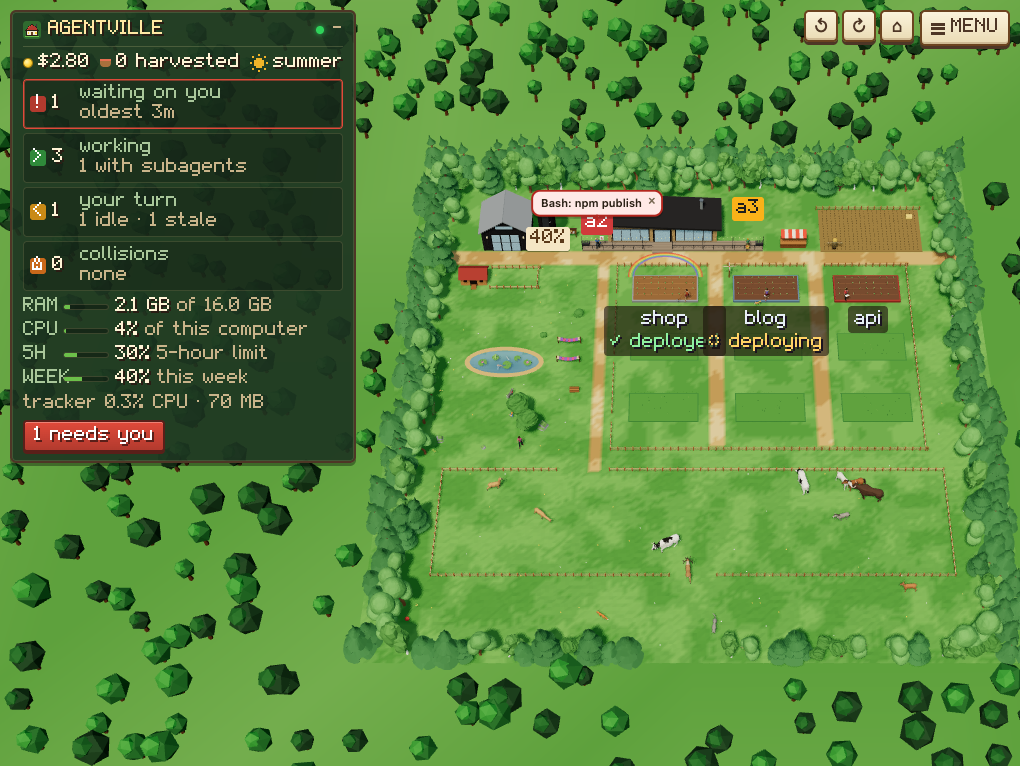
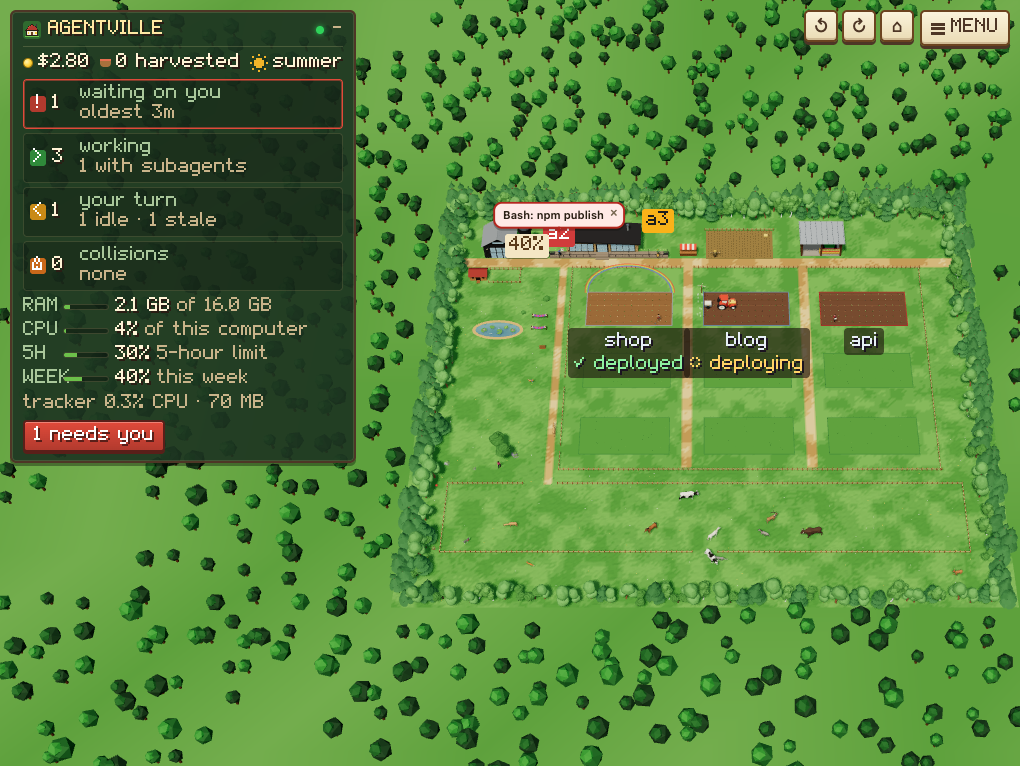
3D farm: docs for the machines, a field's season, the shed, the real crops and the bigger farm
README: the feature line, the bigger fields in the intro, A field's season, Machines and The
machine shed bullets, two troubleshooting rows, the check's line. The 3D farm's Help: a field's
season, machines, the shed. docs/worlds.md: the catalogue row, and baking a palette texture into
a model's vertex colours. docs/farm3d.png taken again (the bigger farm, the sprayer out in blog).

diff --git a/web/worlds/farm3d/overlay.js b/web/worlds/farm3d/overlay.js
@@ -54,13 +54,15 @@ const HELP = `<h2>The 3D farm <small>(a prototype)</small></h2>
     <dt>Your porch</dt><dd>On the deck: waiting on you (left, waving, a red <b>!</b>; a scroll for a plan to approve), its turn ended (right, a basket; <b>?</b> when it asked you something). Click the farmhouse for the list</dd>
     <dt>A field</dt><dd>A farmer at work in a repo, holding the tool for its step (hoe = editing, almanac = reading, spyglass = searching, crate = commit, cart = push, with a flag to deploy, whistle = calling subagents…). Click a field for the files agents read or wrote there</dd>
     <dt>Crops</dt><dd>Grow from seed to ripe as its context fills</dd>
+    <dt>A field's season</dt><dd>Weeds: fallow · dark furrows: ploughed (an agent started work there) · seed rows: sown (its first edit) · growing, then ripe as context fills · wet, dark plants: sprayed (tests running) · stubble: cut by the combine at a compaction, then sown again · dry stalks: its agents are stale</dd>
+    <dt>Machines</dt><dd>A farmer drives one for a heavy step: the tractor sprays for tests, mows for a build, brings sacks for an install, takes crates to the stall for a push, ploughs and sows for a big edit (5 files or more lately); the truck drives a deploy to town; the combine cuts the field at a compaction. It stays out 20 s after the step; waiting on you calls the farmer straight out of it</dd>
     <dt>Above a field</dt><dd>Hay: uncommitted files · crates: unpushed commits · a mailbox: behind · a pennant: a branch · a rope with flags: two agents writing at once · a pump: a background command running</dd>
     <dt>Weather</dt><dd>Rain: its deploy failed · a rainbow: it worked · a windmill: it runs</dd>
     <dt>Elsewhere</dt><dd>The shade tree: idle · scarecrows: stale · hammocks: it wakes up by itself (when, over it) · the meadow: working outside any repo · a cloud: thinking</dd>
     <dt>Hens and the dog</dt><dd>Subagents follow their farmer as hens; an Explore one as a small tan dog. The henhouse: eggs for subagents done lately, hens for those no farmer can lead (click it for the list)</dd>
     <dt>Carts</dt><dd>A cart pulled by a donkey for each MCP server called lately: it drives to the farmer calling it. A cart to town and back for a web call</dd>
     <dt>Pigeons</dt><dd>A note from one agent to another, flying over</dd>
-    <dt>Buildings</dt><dd>The barn: start a session · the silo: your plan's week as grain, a lamp near the limit (click for the meters) · the stall: pull requests, a crate each · the notice board: what your projects remember</dd>
+    <dt>Buildings</dt><dd>The barn: start a session · the silo: your plan's week as grain, a lamp near the limit (click for the meters) · the stall: pull requests, a crate each · the notice board: what your projects remember · the machine shed: who is out on a machine</dd>
     <dt>Animals</dt><dd>Just for fun, never for data. They roam the farm round what stands on it, play and play-fight with each other (tag, a race, a headbutt duel…), and idle farmers come and play with them; they all talk now and then. Click one for its menu: Talk, Play, and Pet, Feed or Throw a stick, which send a farmer over</dd>
     <dt>Moving</dt><dd>Drag to pan, scroll or pinch to zoom. Right-drag (or Shift-drag) to turn and tilt the farm; ↺ ↻ (or Q / E) turn it 15°, ⌂ puts it back square-on. Follow in the Menu keeps the farmer you picked in the middle; zoomed in, the minimap in the corner shows where you are (click it to go elsewhere). Click a farmer to open it; its bubble for its whole conversation; a building or a field for what it holds</dd>
   </dl>

diff --git a/docs/worlds.md b/docs/worlds.md
@@ -37,7 +37,7 @@ Keys: a built-in world is named by its folder in `web/worlds/` (the farm is `far
 | 🌾 **Farm** | `farm` | Built in, and the default: every agent a farmer, every repo a field, with animals of its own. The README's "The farm" says what each thing on it means |
 | 🤖 **Robot factory** | `factory` | Built in: a bright workshop where every agent is a robot put together from parts picked by its id, and every repo an assembly bay where a robot is built as the context fills. It shows everything the farm shows, its own way: the 5-hour limit is floor heat (its season switch is **Heat**: `seasonNames`), a message is a capsule through pneumatic tubes (its own `flight`), and its panel and Menu are the farm's (`panelHud`) in its words. A robot dog, a robot vacuum and a cat live there. `factory.png` below is taken from the golden `factory-day` view (`npm run golden`, the factory chosen by day, animals off), so retake it from that view. The README's "The robot factory" says what each thing means; `web/worlds/factory/world.js` is the second full example after the farm |
 | 🎖 **Field exercise** | `military` | Built in: a bright, friendly army base on manoeuvres where every agent is a soldier in a field jacket of its colour (the people kit's `jacket`), and every repo a position fortified as the context fills, until its flag is raised. It shows everything the farm shows, its own way, and nobody is ever shown hurt: the 5-hour limit is the alert level (its season switch is **Alert**: `seasonNames`; its `coldSeason` is `null`, so its animals never act cold at max), a message is the engine's carrier pigeon, and its panel and Menu are the farm's (`panelHud`) in drill words. The regimental mascots live there: a goat in a red dress coat (the goat's `mascot` look), the mess cat and two depot mice. `military.png` below is taken from the golden `military-day` view (`npm run golden`, the field exercise chosen by day, animals off), so retake it from that view. The README's "The field exercise" says what each thing means; `web/worlds/military/world.js` is the third full example |
-| 🚜 **3D farm** | `farm3d` | Built in, a prototype: the farm drawn in 3D with three.js, a low-poly diorama, with the farm's panel and Menu (`panelHud`, its clicks its own: `web/worlds/farm3d/hud.js`), its building dialogs, a field's close-up (`makeField`), the Farm diary, hens and the Explore dog for subagents, MCP carts, pigeons, farmers playing with the animals and animals playing and play-fighting with each other. It is the example of a world that draws itself (`Agentville.raw`) and imports ES modules from its own folder (`world.js` registers, then `import('./app.js')`; see "Modules", in "Running a world"), with three.js 0.186.1 copied into its `vendor/` (the frame may load scripts from the dashboard only) and every shape built in code (a frame can't fetch a model file, and the dashboard's pictures can't be WebGL textures), but for its animals and plants: the twelve animated models of a CC0 pack, for its pond a frog, three fish and a lily pad, and flat-coloured trees, bushes and rocks (CC0 single models: where each grows is its `nature.js`, drawn one `InstancedMesh` per model part, swayed by the wind in their materials' vertex shader), and for its farmers nine animated characters (CC0; `characters.js` picks one by the agent's id, a clip for each pose and an idle one's own moves (`makeIdler`); `build/character.js` bakes each into two skinned meshes, the shirt in the agent's colour and the rest coloured per vertex, the figurine standing in until it loads), packed into JS files in its `models/` and read with three.js's glTF loader (see "Modules"), then repainted as they load from its `coats.js` (a colour for each of a model's materials, by the material's name, and the farm's matte finish; the cows' spots a colour per face), so the model files stay as their maker made them. What they get up to, their habits and the menu a click on one opens, is plain logic in its `antics.js`, and where they may go (each herd's ground less the pond, the trees and the fences, for a body of its size; the pond's water and lily pads) is its `roam.js`, both apart from three.js, so its tests run them in Node; the animals' hit boxes are invisible meshes the click's ray finds. The far meadow under the farm is drawn first and hides nothing (`depthWrite` off), so the pond's hollow and its fish can lie below it. It follows the farm's rules from the scene (its `model.js`, whose copies of the farm's tables and rules `collector/test/farm3d.test.mjs` pins to the farm's own); what it shows, and the little it doesn't yet (the 2D farm's animal pranks), is in the README's "The 3D farm (prototype)". `farm3d.png` below is taken from `npm run world-shots -- farm3d --stop everyone`, cropped to the world. check-world can't run it (its vm has no modules or WebGL) and says so; `npm run farm3d-check` checks it in headless Chrome |
+| 🚜 **3D farm** | `farm3d` | Built in, a prototype: the farm drawn in 3D with three.js, a low-poly diorama, with the farm's panel and Menu (`panelHud`, its clicks its own: `web/worlds/farm3d/hud.js`), its building dialogs, a field's close-up (`makeField`), the Farm diary, hens and the Explore dog for subagents, MCP carts, pigeons, farmers playing with the animals and animals playing and play-fighting with each other, farmers driving machines for heavy steps (which machine, its passes and its way there are plain logic in its `machines.js`, drawn by `build/machines.js`: Kenney's tractor and truck, CC0, their palette baked into vertex colours and repainted per part, and a code-built combine), each field's season from its agents' work (`season.js`: ploughed, sown, growing, sprayed, ripe, cut; it reads the scene's `writes` for a big edit), crops from CC0 models growing past the sprouts, and bigger fields than the farm's. It is the example of a world that draws itself (`Agentville.raw`) and imports ES modules from its own folder (`world.js` registers, then `import('./app.js')`; see "Modules", in "Running a world"), with three.js 0.186.1 copied into its `vendor/` (the frame may load scripts from the dashboard only) and every shape built in code (a frame can't fetch a model file, and the dashboard's pictures can't be WebGL textures), but for its animals and plants: the twelve animated models of a CC0 pack, for its pond a frog, three fish and a lily pad, and flat-coloured trees, bushes and rocks (CC0 single models: where each grows is its `nature.js`, drawn one `InstancedMesh` per model part, swayed by the wind in their materials' vertex shader), and for its farmers nine animated characters (CC0; `characters.js` picks one by the agent's id, a clip for each pose and an idle one's own moves (`makeIdler`); `build/character.js` bakes each into two skinned meshes, the shirt in the agent's colour and the rest coloured per vertex, the figurine standing in until it loads), packed into JS files in its `models/` and read with three.js's glTF loader (see "Modules"), then repainted as they load from its `coats.js` (a colour for each of a model's materials, by the material's name, and the farm's matte finish; the cows' spots a colour per face), so the model files stay as their maker made them. What they get up to, their habits and the menu a click on one opens, is plain logic in its `antics.js`, and where they may go (each herd's ground less the pond, the trees and the fences, for a body of its size; the pond's water and lily pads) is its `roam.js`, both apart from three.js, so its tests run them in Node; the animals' hit boxes are invisible meshes the click's ray finds. The far meadow under the farm is drawn first and hides nothing (`depthWrite` off), so the pond's hollow and its fish can lie below it. It follows the farm's rules from the scene (its `model.js`, whose copies of the farm's tables and rules `collector/test/farm3d.test.mjs` pins to the farm's own); what it shows, and the little it doesn't yet (the 2D farm's animal pranks), is in the README's "The 3D farm (prototype)". `farm3d.png` below is taken from `npm run world-shots -- farm3d --stop everyone`, cropped to the world. check-world can't run it (its vm has no modules or WebGL) and says so; `npm run farm3d-check` checks it in headless Chrome |
 | 🌱 **Starter** | `starter` | The template `npm run new-world` copies: plain, short, and not in the list of worlds (see "The starter world"). It can still be framed, so the test page and `check-world` run it |
 
 ![The farm: every agent a farmer, every repo a field](farm.png)
@@ -1576,10 +1576,14 @@ A frame can't fetch a model file either, but a module can hold one. The 3D farm'
 (GLB) packed as base64 in JS files of its own (`export default '…'`): the world imports one, turns it back
 into bytes, and reads it with three.js's glTF loader (`vendor/GLTFLoader.js`, its imports made relative),
 `await new GLTFLoader().parseAsync(bytes.buffer, '')`. Leave the textures out, since the loader would fetch
-them; flat colours from the model's materials work. `scripts/farm3d-animals.mjs` makes them from poly.pizza
-models, and `scripts/lib/glb.mjs` slims each to a third of its size in core glTF the loader reads: the
-animations kept once, each one's keys thinned to those a straight line between their neighbours doesn't
-give, rotations in 16-bit integers, skin weights in bytes, normals and texture coordinates dropped.
+them; flat colours from the model's materials work, and so do colours per vertex. A model coloured from a
+small palette image (Kenney's kits) can have the image baked into its vertices first: `bakeTexture` in
+`scripts/lib/glb.mjs` gives each vertex the image's colour at its texture coordinates (linear, as glTF's
+colours are) and drops the image; give its material `vertexColors`. `scripts/farm3d-animals.mjs`
+(`npm run farm3d-models`) makes them from poly.pizza models and Kenney's Car Kit zip, and
+`scripts/lib/glb.mjs` slims each to a third of its size in core glTF the loader reads: the animations
+kept once, each one's keys thinned to those a straight line between their neighbours doesn't give,
+rotations in 16-bit integers, skin weights in bytes, normals and texture coordinates dropped.
 
 `opts` holds the page's settings and the world's way out. Each function sends one message:
 

diff --git a/README.md b/README.md
@@ -157,7 +157,10 @@ It listens on the loopback addresses only (`127.0.0.1`, and `::1` where the mach
   shown hurt. The regimental mascots, a goat in a dress coat, the mess cat and the depot mice, live
   there just for fun.
 - The 3D farm, a prototype: the same live farm as a low-poly diorama in 3D (three.js). Farmers walk
-  the lanes with their tools, crops grow as context fills, the sun follows your clock and the seasons
+  the lanes with their tools and drive machines for the heavy steps (a tractor sprays for tests, mows
+  for builds, ploughs and sows for a big edit, hauls supplies and crates; a truck drives a deploy to
+  town; the combine brings in the harvest at a compaction), each field has its season (ploughed, sown,
+  growing, ripe, cut), real crop models grow as context fills, the sun follows your clock and the seasons
   your 5-hour limit, deploys bring rain or a rainbow, and eighteen animated animals graze, gallop and get
   up to things, a frog and three fish in the pond among them (click one to pet it, feed it, throw the
   dogs a stick or send the frog diving), play tag and play-fight with each other, and talk. It has the
@@ -1283,14 +1286,15 @@ in the list of worlds (**World**). It is a prototype, to see how a farm in 3D fe
 farm's own rules, so every farmer stands where the farm would put it and every repo lies in the bed the
 farm gives it (when both are opened fresh), and it has the farm's panel, Menu, buildings, close-up, diary,
 hens, carts and pigeons, so moving between the worlds you find the same buttons doing the same things. It has more room
-than the farm: 5 m walkways and rows between the fields, farmers 4 m apart on a longer deck, a wider yard,
-a fenced pasture across the front, and a strip of grass under it where the forest begins.
+than the farm: fields 18.5 m by 9 m (six rows of twelve plants), 7 m walkways and headlands between them
+for the machines, farmers 4 m apart on a longer deck, a wider yard, a machine shed, a fenced pasture across
+the front, and a strip of grass under it where the forest begins.
 
 ![The 3D farm: the farm as a low-poly diorama](docs/farm3d.png)
 
 **What it shows.** The farmstead (the black barn, the silo with your plan's week as grain and a lamp near
-the limit, the timber farmhouse and its deck, your porch, with string lights), a raised bed for each repo
-in the fenced grid, the yard with the henhouse, the pond (clear water over a muddy hollow, lily pads), the hammocks and the shade tree, the scarecrow
+the limit, the timber farmhouse and its deck, your porch, with string lights, the machine shed on the lane past the
+scarecrows), a field for each repo in the fenced grid, the yard with the henhouse, the pond (clear water over a muddy hollow, lily pads), the hammocks and the shade tree, the scarecrow
 patch, the pasture across the front, and the meadow and the forest running on all round.
 - **Trees, bushes and rocks**: Quaternius's flat-coloured models (single models, CC0): leafy trees,
   birches and pines in the forest round the farm (pines further out), the shade tree and the orchard,
@@ -1313,9 +1317,34 @@ patch, the pasture across the front, and the meadow and the forest running on al
   Past the sprouts they are models, growing from a third of their size to full: Quaternius's wheat, corn,
   pumpkins (on vines built in code), carrots (their orange tops just showing) and tomatoes (hung on a staked
   plant built in code), and Kenney's cabbage (single models from poly.pizza, CC0); the sunflower is built in
-  code. Until a crop's model loads, a moment after the farm, the plant built in code stands in. Hay, crates and a mailbox for uncommitted files, unpushed commits and commits behind; a pennant for a
+  code. Until a crop's model loads, a moment after the farm, the plant built in code stands in. Hay,
+  crates and a mailbox for uncommitted files, unpushed commits and commits behind; a pennant for a
   branch, a rope with orange flags when two agents write at once, a greenhouse over a worktree; rain over
   a failed deploy, a rainbow over one that worked, a windmill while it runs.
+- **A field's season**, from its agents' work since the page opened (`web/worlds/farm3d/season.js`):
+  weeds while it lies fallow; dark, turned soil (**ploughed**) when an agent starts work there; seed
+  rows (**sown**) at its first edit or write; the crop **growing** as context fills and **ripe** near
+  the limit, as on the farm; the plants wet and dark (**sprayed**) while an agent runs tests; at a
+  compaction the combine **cuts** it row by row, stubble behind it, and it is sown again; weeds after
+  30 idle minutes; dry stalks when its agents are all stale. A field already at work when you open the
+  page grows on as it is.
+- **Machines**: a farmer whose step is heavy walks to the machine shed, climbs into a machine and
+  drives the lane and the walkway to its field (`web/worlds/farm3d/machines.js`): Kenney's tractor (red,
+  cream wheels) with a sprayer for tests (mist from its boom), a mower for a build, a trailer of sacks
+  for an install and of crates to the market stall for a push, and a plough with a seed drill for a
+  big edit (five files or more written in the last 5 minutes), which furrows and sows the field pass
+  by pass; Kenney's flatbed truck with a red flag off to town along the lane for a deploy; and the
+  combine for a compaction, which cuts its field once. A machine works the rows from the walkway side,
+  turning on the headland; two farmers in one field take every other row. It stays out 20 s after its
+  step ends, so it doesn't flicker; another tractor step swaps the implement where it is, and a step
+  that needs the truck or the combine sends the tractor home first. On the lane it stops for a farmer,
+  an animal or another machine ahead, and goes on after 5 s. Waiting on you, or your turn, calls the
+  farmer straight out of it, and the machine drives itself home. Its name tag rides the cab, and a click
+  on it opens its farmer. With **Motion** off each machine stands at its work spot, its farmer in the
+  seat (the combine's harvest done at once).
+- **The machine shed**: an open-fronted timber shed with a metal roof, a tractor and the combine
+  parked in it (one goes while one of its kind is out). Click it for who is out on which machine,
+  doing what and where.
 - **Light and seasons**: the sun crosses the sky by your clock and the windows and lamps glow at night;
   the season follows your 5-hour limit, with blossom in spring, orange leaves in autumn and snow in
   winter. **Sky** and **Season** in the Menu hold one, as on the farm. With **Motion** off the wind
@@ -1754,6 +1783,8 @@ and can do is in [docs/worlds.md](docs/worlds.md).
 | **✨** says no name came, or the ✨ Helper shows a last error | No session is listening with mod 0.8.0 (`/reload-plugins` in it), today's limit is reached (it resets at midnight), or your organisation doesn't allow Haiku (the error says so) |
 | The 3D farm is blank, or says it needs WebGL | The browser has no WebGL here: switch on hardware acceleration (Chrome: Settings → System → Use graphics acceleration when available) and reload, or choose another world. `npm run farm3d-check` checks it in headless Chrome |
 | The 3D farm says it could not load | Its files failed to load (an error strip says which): reload the page. Its Menu's **World** and **List** still work, to choose another world meanwhile |
+| A field in the 3D farm shows simple shapes instead of crops, or a tractor made of boxes | Their models haven't loaded yet (a moment after the farm draws, the first time), or `npm run farm3d-models` hasn't been run since an update that changed them: run it and reload |
+| No machine comes out on the 3D farm for a heavy step | Machines go out for tests, builds, installs, pushes, deploys, a big edit (five files or more written in the last 5 minutes) and a compaction, only for a farmer at work in a field and drawn (not hidden by **Resting**). One waits in the shed while its farmer walks over |
 | The 3D farm's animals stand still when you pick something from an animal's menu | **Motion** is off (or the browser asks for reduced motion): they don't move then, and the menu says so. Switch Motion on in the Menu. The animals come a moment after the farm draws, the first time |
 
 ## Known limits
@@ -1816,7 +1847,7 @@ npm run test:ui             # the dashboard, the farm and other worlds in headle
 npm run kit-sheet           # redraw docs/kits.png, the picture of the people and props kits
 npm run world-shots -- <world>  # a picture of a world at every stop of its test tour (.private/shots/)
 npm run check-world -- <world>  # the test tour run headless against a world: exceptions, loops, creatures, pointers
-npm run farm3d-check        # the 3D farm in headless Chrome: every tour stop drawn with its name tags, the animals and their menus, memory, no WebGL
+npm run farm3d-check        # the 3D farm in headless Chrome: every tour stop drawn with its name tags, the animals and their menus, the crops, the seasons, the machines, the draw budget, memory, no WebGL
 npm run farm3d-models       # make the 3D farm's models again from poly.pizza and kenney.nl (web/worlds/farm3d/models/; needs the network)
 npm run golden              # reference pictures of the list, the farm, the factory and the field exercise on a fixed snapshot,
                             # compared byte for byte (.private/golden/); --record saves them
